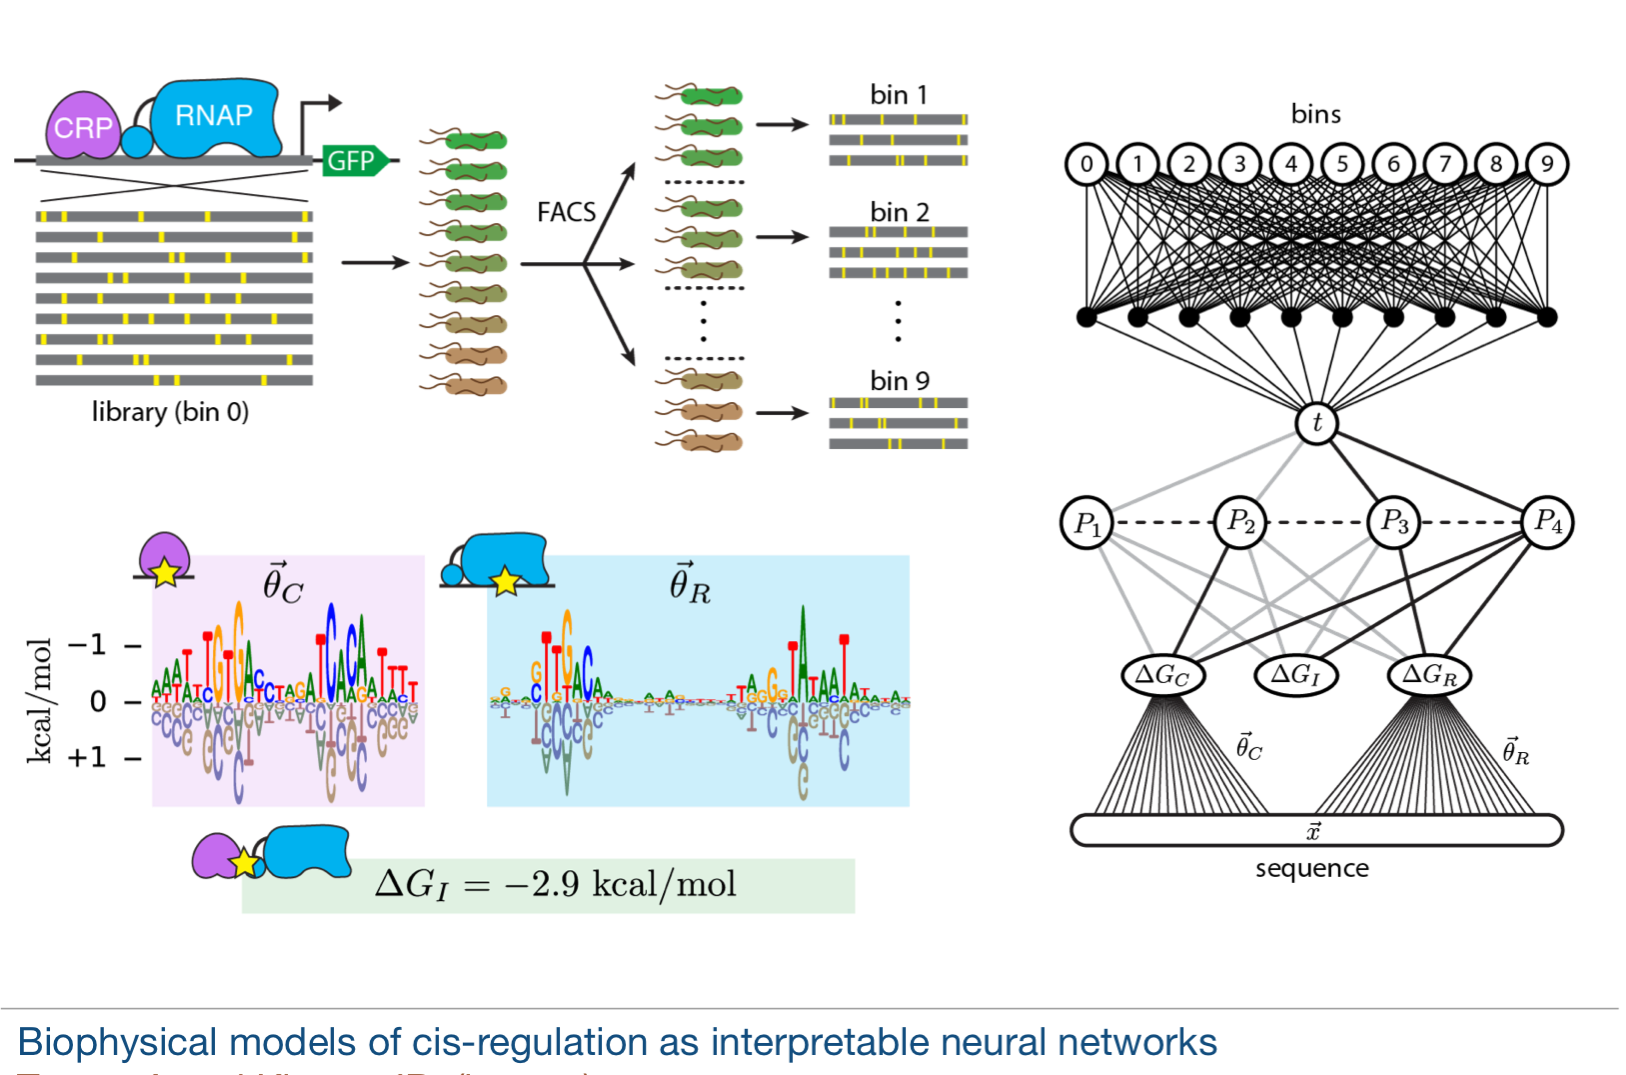
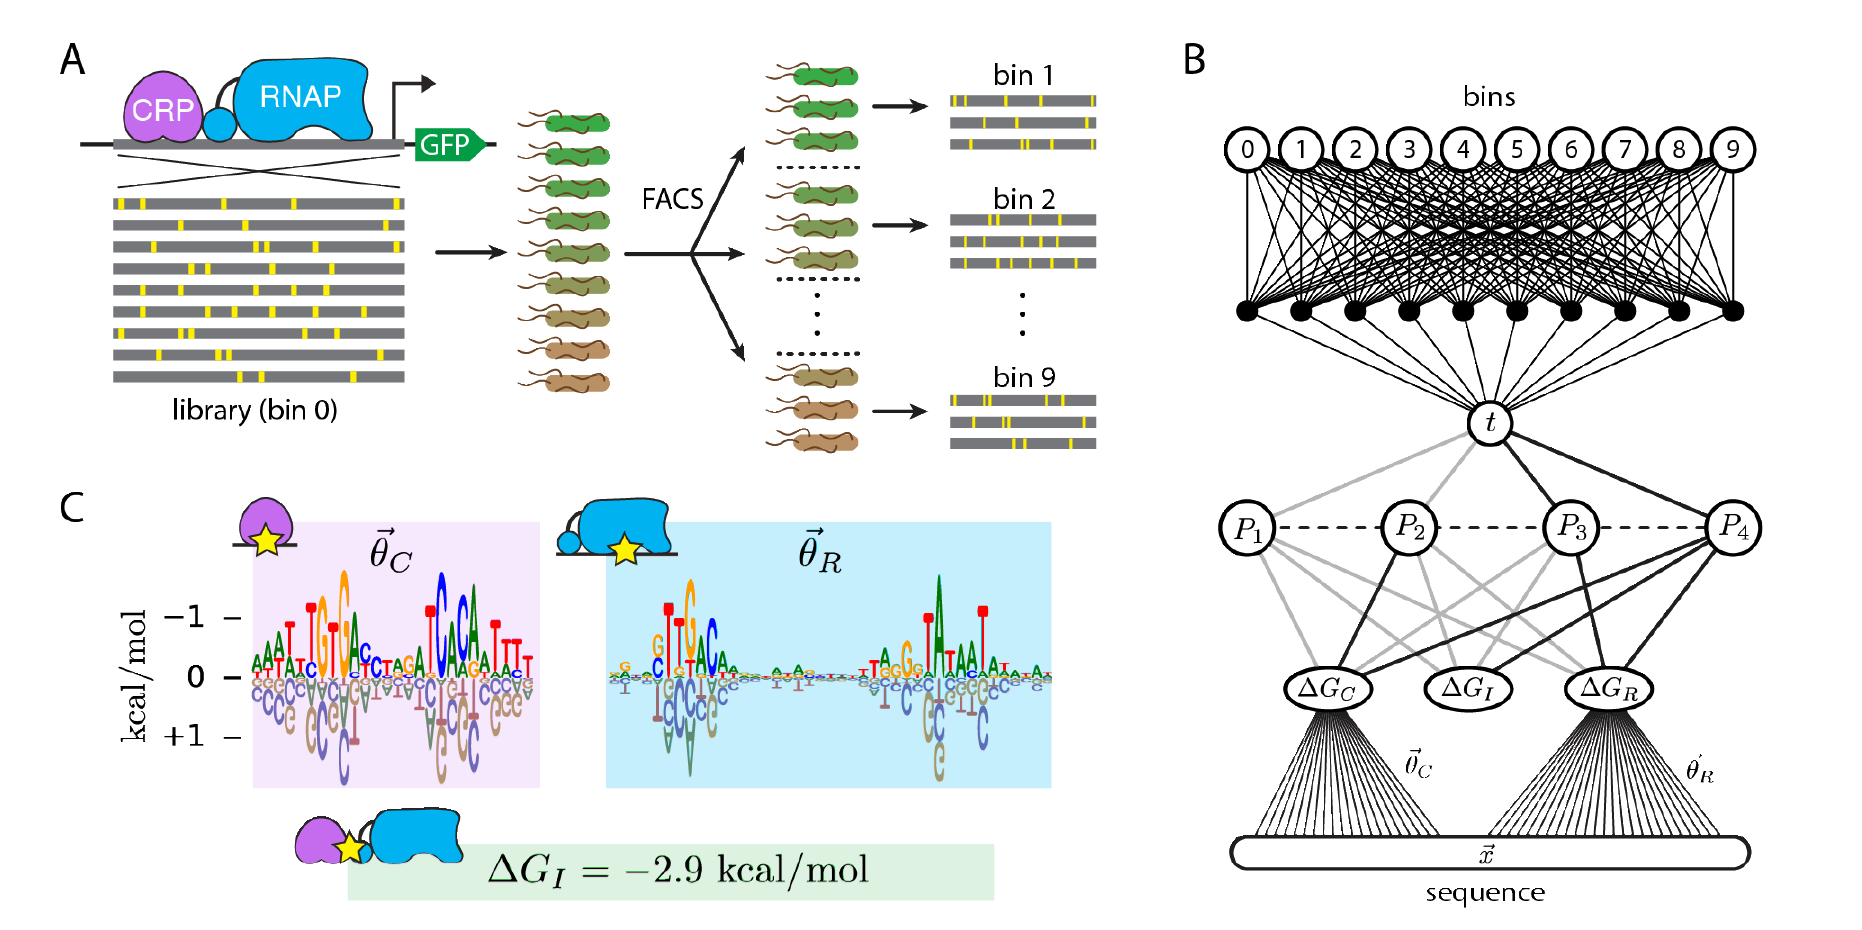
Updating github.io page

diff --git a/index.md b/index.md
@@ -9,5 +9,17 @@ I am interested in using machine learning methods to understand sequence-functio
 I am also interested in developing methods that help interpret the black-box nature of neural networks. 
    
 ![bp_nn.png](bp_nn.png)
+
+Inference of a thermodynamic model from MPRA data. (A) Schematic of the sort-seq MPRA of. A
+75bp region of the E. coli lac promoter was mutagenized at 12% per nucleotide. Variant promoters were then used to
+drive the expression of GFP. Cells carrying these expression constructs were then sorted using FACS, and the variant
+sequences in each bin were sequenced. This yielded data on about 50K variant promoters across 10 bins. (B) The
+neural network from Fig. 1D, but with delta GC and delta GR expressed as linear functions of the DNA sequence x, as well as
+a dense feed-forward network mapping activity t to bins via a probability distribution p(bin|t). Gray lines indicate
+weights fixed at 0. The weights in the second and third hidden layers have additional, hardcoded, constraints. (C) The
+parameter values inferred for the CRP energy matrix C, the RNAP energy matrix R, and the CRP-RNAP interaction
+energy delta GI . Since increasingly negative energy corresponds to stronger binding, they y-axis in the logo plots is
+inverted. Logos were generated using Logomaker
+
 ![mpathic.png](mpathic.png)
 ![logomaker.png](logomaker.png)
